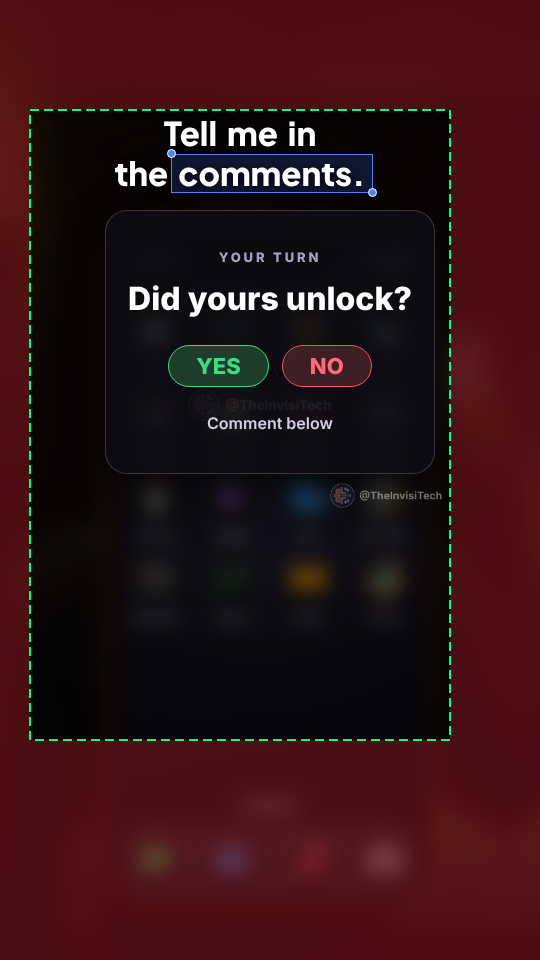
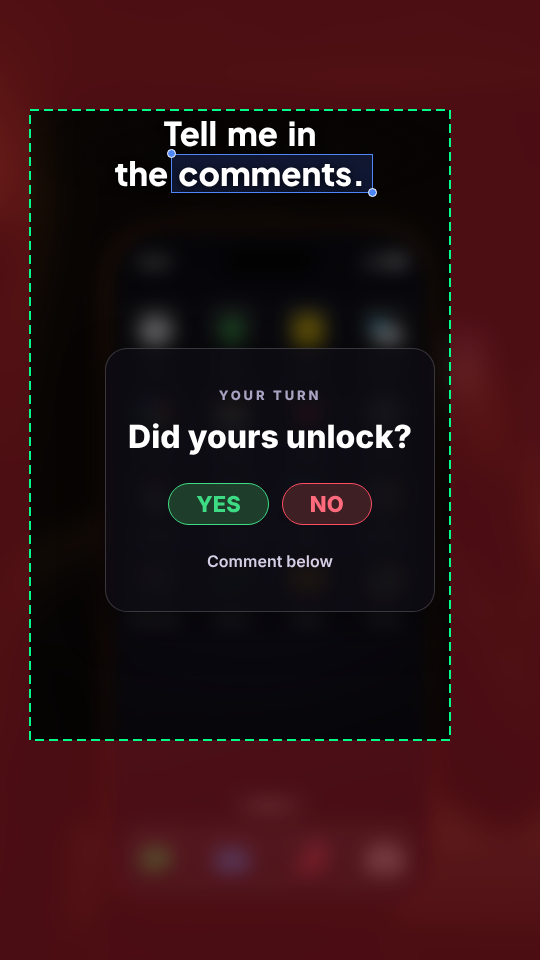
Question card centred on the screen; watermark steps aside while it is up
Claude-Session: https://claude.ai/code/session_01GXcKc5WnFrVWBsHLe8YpAy

Changed region(s): [[0.237, 0.25, 0.7704, 0.4688], [0.2963, 0.5, 0.8296, 0.625], [0.6815, 0.5938, 0.7407, 0.625]]

diff --git a/face-id/mirror-short/src/scenes/Reveal.tsx b/face-id/mirror-short/src/scenes/Reveal.tsx
@@ -85,7 +85,7 @@ export const Reveal: React.FC = () => {
         <span style={{ display: 'inline-block', padding: '16px 30px', borderRadius: 16, background: 'rgba(8,10,8,.85)', border: '3px solid #3ddc84', font: `800 54px/1 ${FONT}`, letterSpacing: '0.06em', color: '#3ddc84' }}>UNLOCKED</span>
       </div>
       {/* the question: one clean card in the middle of the screen */}
-      <div style={{ position: 'absolute', left: 0, right: 0, top: 420, display: 'flex', justifyContent: 'center', opacity: ask, transform: `translateY(${30 * (1 - ask)}px) scale(${0.94 + 0.06 * ask})` }}>
+      <div style={{ position: 'absolute', left: 0, right: 0, top: 0, bottom: 0, display: 'flex', alignItems: 'center', justifyContent: 'center', opacity: ask, transform: `translateY(${30 * (1 - ask)}px) scale(${0.94 + 0.06 * ask})` }}>
         <div style={{ width: 660, padding: '80px 40px 84px', borderRadius: 44, background: 'rgba(14,12,20,.82)', border: '2px solid rgba(255,255,255,.18)', boxShadow: '0 30px 80px rgba(0,0,0,.55)', textAlign: 'center' }}>
           <div style={{ font: `700 26px/1 ${FONT}`, letterSpacing: '0.22em', color: '#a9a3c2' }}>YOUR TURN</div>
           <div style={{ marginTop: 34, font: `800 64px/1.1 ${FONT}`, color: '#fff' }}>Did yours unlock?</div>

diff --git a/face-id/mirror-short/src/Watermark.tsx b/face-id/mirror-short/src/Watermark.tsx
@@ -1,4 +1,6 @@
 import { AbsoluteFill, Img, staticFile, useCurrentFrame } from 'remotion';
+import { SCENES, UNLOCK_AT, f } from './script';
+import { ramp } from './theme';
 
 // Channel rule 15/22: logo + @TheInvisiTech on every Short. A clear one at the right edge,
 // vertical centre (clear of the like/comment column), softly blended; plus a faint one drifting
@@ -6,8 +8,9 @@ import { AbsoluteFill, Img, staticFile, useCurrentFrame } from 'remotion';
 export const Watermark: React.FC = () => {
   const fr = useCurrentFrame();
   const k = fr / 1124;
+  const ASK = f(SCENES.test[0]) + UNLOCK_AT + 34, hide = 1 - ramp(fr, ASK - 4, ASK + 4);
   return (
-    <AbsoluteFill style={{ pointerEvents: 'none' }}>
+    <AbsoluteFill style={{ pointerEvents: 'none', opacity: hide }}>
       <Img src={staticFile('watermark-clear.png')} style={{ position: 'absolute', right: 190, top: 965,   // moved up while the phone is held there
         height: 50, opacity: 0.42, mixBlendMode: 'screen', filter: 'saturate(0.85)' }} />
       <Img src={staticFile('watermark-clear.png')} style={{ position: 'absolute', left: 160 + 220 * k, top: 760 + 260 * Math.sin(k * Math.PI), height: 64, opacity: 0.07, mixBlendMode: 'screen' }} />
